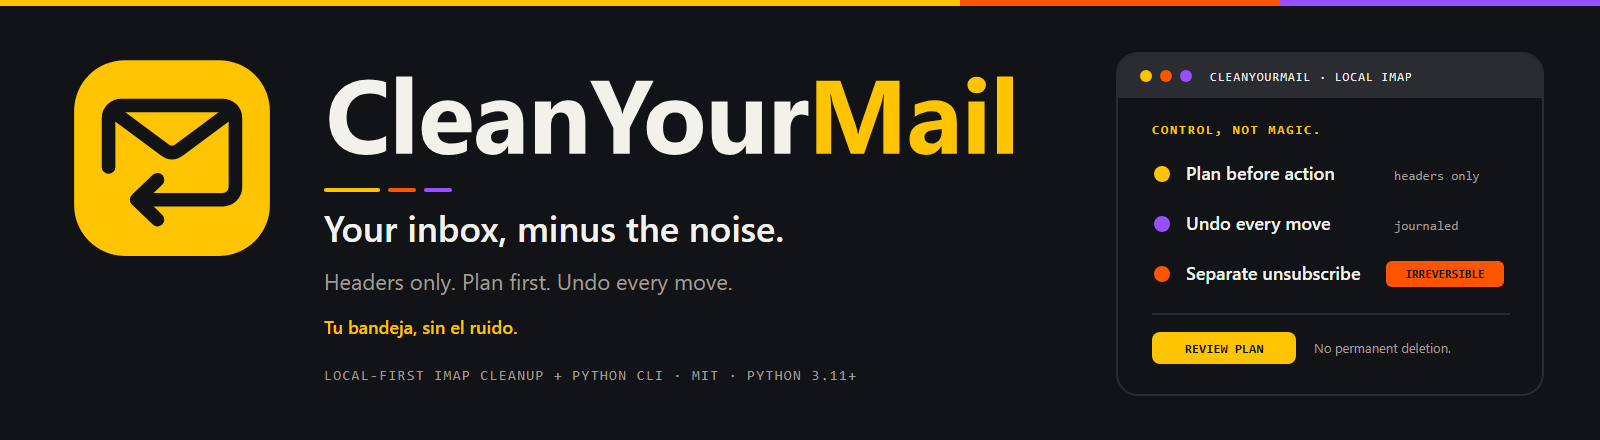
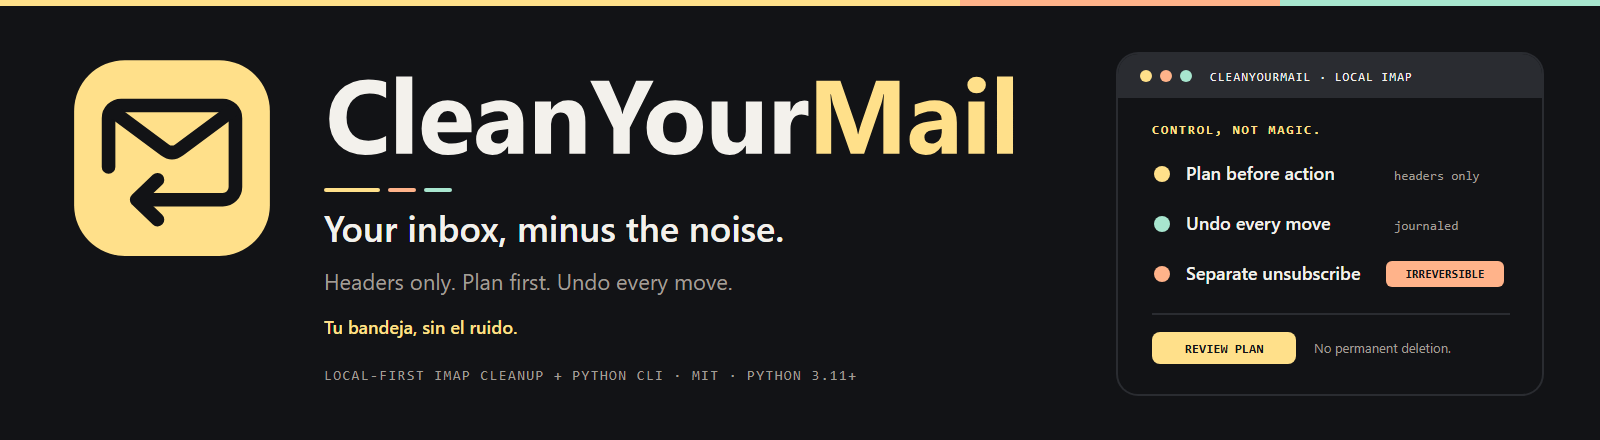
brand: soften Spectrum to pastel yellow, peach and mint
- Replace saturated yellow/orange/purple with #FFE08A, #FFB38A and #A8E6CF.\n- Remove purple; mint now carries journal/undo and peach carries attention.\n- Update the Spectrum guide, preview, banner and social card.\n- Refresh the repository banner and social preview.\n\nTests: python -m unittest discover -s tests -v (146 OK);\npython -m compileall -q tools tests; python -m ruff check tools tests.

diff --git a/brand/final-spectrum/preview.html b/brand/final-spectrum/preview.html
@@ -12,13 +12,13 @@
       --panel-inner: #191B20;
       --text: #F3F1EC;
       --muted: #A19E96;
-      --yellow: #FFC400;
-      --orange: #FF5500;
-      --purple: #9650FF;
+      --yellow: #FFE08A;
+      --peach: #FFB38A;
+      --mint: #A8E6CF;
       --light-bg: #F3F1EC;
       --light-text: #121316;
       --light-secondary: #4E4D48;
-      --light-amber: #8A5200;
+      --light-amber: #7A5A00;
     }
     * { box-sizing: border-box; }
     body {
@@ -34,8 +34,8 @@
       width: 100%;
     }
     .top-ribbon .r-yellow { flex: 6; background: var(--yellow); }
-    .top-ribbon .r-orange { flex: 2; background: var(--orange); }
-    .top-ribbon .r-purple { flex: 2; background: var(--purple); }
+    .top-ribbon .r-peach { flex: 2; background: var(--peach); }
+    .top-ribbon .r-mint { flex: 2; background: var(--mint); }
     main {
       width: min(1440px, calc(100% - 64px));
       margin: 0 auto;
@@ -252,15 +252,15 @@
 <body>
   <div class="top-ribbon" aria-hidden="true">
     <div class="r-yellow"></div>
-    <div class="r-orange"></div>
-    <div class="r-purple"></div>
+    <div class="r-peach"></div>
+    <div class="r-mint"></div>
   </div>
   <main>
     <header>
       <div>
         <div class="eyebrow">Spectrum Colorway · Return Fold Identity</div>
         <h1>CleanYourMail</h1>
-        <p class="lede">Control, not magic. The Return Fold desktop app and CLI identity in the high-contrast Spectrum palette: warm yellow primary tile, purple journal/undo markers, and orange irreversible-unsubscribe warnings.</p>
+        <p class="lede">Control, not magic. The Return Fold desktop app and CLI identity in the high-contrast Spectrum palette: warm yellow primary tile, mint journal/undo markers, and peach irreversible-unsubscribe warnings.</p>
       </div>
       <div class="tagline-box">
         <p class="tagline">Your inbox, minus the noise.</p>
@@ -270,7 +270,7 @@
 
     <section>
       <h2>Symbol scale test (16 px – 256 px)</h2>
-      <p class="section-note">Solid yellow (#FFC400) tile with a single near-black (#121316) Return Fold glyph (11.63:1 contrast). The three-stripe ribbon is never placed inside the symbol or favicon.</p>
+      <p class="section-note">Solid yellow (#FFE08A) tile with a single near-black (#121316) Return Fold glyph (14.40:1 contrast). The three-stripe ribbon is never placed inside the symbol or favicon.</p>
       <div class="panel sizes">
         <div class="size"><img src="symbol.svg" alt="CleanYourMail Spectrum symbol at 16 pixels" width="16" height="16"><span>16 px</span></div>
         <div class="size"><img src="symbol.svg" alt="CleanYourMail Spectrum symbol at 24 pixels" width="24" height="24"><span>24 px</span></div>
@@ -283,7 +283,7 @@
 
     <section>
       <h2>Desktop app icon — dark &amp; light dock / taskbar mock</h2>
-      <p class="section-note">1024×1024 rounded-square desktop app icon with 96 px macOS/Windows safe margins, dark #121316 outer bezel, #2A2C31 inner rim, and #FFC400 Return Fold badge.</p>
+      <p class="section-note">1024×1024 rounded-square desktop app icon with 96 px macOS/Windows safe margins, dark #121316 outer bezel, #2A2C31 inner rim, and #FFE08A Return Fold badge.</p>
       <div class="grid">
         <div class="panel asset">
           <div class="dock-stage dark">
@@ -361,7 +361,7 @@
 
     <section>
       <h2>Primary lockups &amp; restrained three-stripe accent</h2>
-      <p class="section-note">The symbol stays a solid yellow tile; the three-stripe structural rule (yellow dominant, orange, purple) sits calmly below the wordmark.</p>
+      <p class="section-note">The symbol stays a solid yellow tile; the three-stripe structural rule (yellow dominant, peach, mint) sits calmly below the wordmark.</p>
       <div class="grid">
         <div class="panel asset">
           <img class="lockup-wide" src="lockup-horizontal.svg" alt="CleanYourMail Spectrum horizontal lockup" width="860" height="192">
@@ -376,7 +376,7 @@
 
     <section>
       <h2>Wordmark and light-background variant</h2>
-      <p class="section-note">wordmark.svg uses outlined vector paths (#F3F1EC CleanYour + #FFC400 Mail). light.svg uses #F3F1EC canvas, #121316 tile, and accessible deep amber #8A5200 (5.66:1) for Mail.</p>
+      <p class="section-note">wordmark.svg uses outlined vector paths (#F3F1EC CleanYour + #FFE08A Mail). light.svg uses #F3F1EC canvas, #121316 tile, and accessible deep amber #7A5A00 (5.65:1) for Mail.</p>
       <div class="grid">
         <div class="panel asset">
           <img class="lockup-wide" src="wordmark.svg" alt="CleanYourMail Spectrum outlined wordmark" width="604" height="96">
@@ -399,7 +399,7 @@
 
     <section>
       <h2>Social / Open Graph card (1280 × 640)</h2>
-      <p class="section-note">social.svg · Local desktop app + Python CLI engine with yellow plan, purple undo, and orange irreversible-unsubscribe callout.</p>
+      <p class="section-note">social.svg · Local desktop app + Python CLI engine with yellow plan, mint undo, and peach irreversible-unsubscribe callout.</p>
       <div class="panel card"><img src="social.svg" alt="CleanYourMail Spectrum social card" width="1280" height="640"></div>
     </section>
 
@@ -408,19 +408,19 @@
       <p class="section-note">Each accent color maps to a specific product truth rather than equal-weight decoration.</p>
       <div class="roles-grid">
         <div class="role-card">
-          <span class="role-pill" style="background:#FFC400;color:#121316;">YELLOW · #FFC400 · 11.63:1</span>
+          <span class="role-pill" style="background:#FFE08A;color:#121316;">YELLOW · #FFE08A · 14.40:1</span>
           <h3>Primary Action, Plan &amp; Logo Tile</h3>
           <p class="section-note" style="margin:0;">Used for the Return Fold tile, "Mail" in the dark wordmark, primary CTAs ("Review Plan"), and step 1. Always pair yellow surfaces with near-black (#121316) ink.</p>
         </div>
         <div class="role-card">
-          <span class="role-pill" style="background:#9650FF;color:#121316;">PURPLE · #9650FF · 4.32:1</span>
+          <span class="role-pill" style="background:#A8E6CF;color:#121316;">MINT · #A8E6CF · 13.17:1</span>
           <h3>Journal, Undo &amp; Secondary Path</h3>
           <p class="section-note" style="margin:0;">Used for append-only journal badges, undo step markers, and secondary graphic accents. Never use for small body text on dark backgrounds.</p>
         </div>
         <div class="role-card">
-          <span class="role-pill" style="background:#FF5500;color:#121316;">ORANGE · #FF5500 · 5.80:1</span>
+          <span class="role-pill" style="background:#FFB38A;color:#121316;">PEACH · #FFB38A · 10.67:1</span>
           <h3>Attention &amp; Irreversible Unsubscribe</h3>
-          <p class="section-note" style="margin:0;">Reserved for warnings and the separate, irreversible unsubscribe flow. Use near-black (#121316) text on orange badges.</p>
+          <p class="section-note" style="margin:0;">Reserved for warnings and the separate, irreversible unsubscribe flow. Use near-black (#121316) text on peach badges.</p>
         </div>
       </div>
 
@@ -429,10 +429,10 @@
         <div class="swatch"><div class="swatch-color" style="background:#2A2C31"></div><div class="swatch-info"><strong>Panel Gray</strong><br>#2A2C31</div></div>
         <div class="swatch"><div class="swatch-color" style="background:#F3F1EC"></div><div class="swatch-info"><strong>Off-White Text</strong><br>#F3F1EC · 16.46:1</div></div>
         <div class="swatch"><div class="swatch-color" style="background:#A19E96"></div><div class="swatch-info"><strong>Muted Gray</strong><br>#A19E96 · 6.94:1</div></div>
-        <div class="swatch"><div class="swatch-color" style="background:#FFC400"></div><div class="swatch-info"><strong>Primary Yellow</strong><br>#FFC400 · 11.63:1</div></div>
-        <div class="swatch"><div class="swatch-color" style="background:#FF5500"></div><div class="swatch-info"><strong>Warning Orange</strong><br>#FF5500 · 5.80:1</div></div>
-        <div class="swatch"><div class="swatch-color" style="background:#9650FF"></div><div class="swatch-info"><strong>Undo Purple</strong><br>#9650FF · 4.32:1</div></div>
-        <div class="swatch"><div class="swatch-color" style="background:#8A5200"></div><div class="swatch-info"><strong>Light Amber</strong><br>#8A5200 · 5.66:1</div></div>
+        <div class="swatch"><div class="swatch-color" style="background:#FFE08A"></div><div class="swatch-info"><strong>Primary Yellow</strong><br>#FFE08A · 14.40:1</div></div>
+        <div class="swatch"><div class="swatch-color" style="background:#FFB38A"></div><div class="swatch-info"><strong>Warning Peach</strong><br>#FFB38A · 10.67:1</div></div>
+        <div class="swatch"><div class="swatch-color" style="background:#A8E6CF"></div><div class="swatch-info"><strong>Undo Mint</strong><br>#A8E6CF · 13.17:1</div></div>
+        <div class="swatch"><div class="swatch-color" style="background:#7A5A00"></div><div class="swatch-info"><strong>Light Amber</strong><br>#7A5A00 · 5.65:1</div></div>
       </div>
     </section>
 
@@ -449,7 +449,7 @@
           </div>
           <img class="lockup-wide" src="lockup-horizontal.svg" alt="Spectrum horizontal lockup" width="860" height="192">
           <div style="margin-top:14px;"><img class="lockup-wide" src="banner.svg" alt="Spectrum banner" width="1600" height="440"></div>
-          <div class="caption">Neutral carbon #121316 + #FFC400 / #FF5500 / #9650FF semantic accents</div>
+          <div class="caption">Neutral carbon #121316 + #FFE08A / #FFB38A / #A8E6CF semantic accents</div>
         </div>
 
         <div class="panel asset" style="background:#07100d;border-color:#11231b;">

diff --git a/brand/final-spectrum/README.md b/brand/final-spectrum/README.md
@@ -6,28 +6,28 @@
 - **Mark:** **Return Fold** (identical geometry to `brand/final/`): a rounded-square tile containing an envelope whose right and bottom perimeter folds continuously into a left-return arrow (`↩`) below a symmetric V-flap.
 - **Brand idea:** **Control, not magic.**
 - **One-liner:** CleanYourMail is a local-first IMAP cleanup product: a Python CLI and agent skill today, with a desktop app in development. It reads headers only, plans before action, and gives every move a way back.
-
-> The desktop app icon and app-first tokens are prepared for the planned app. Today the Python CLI and agent skill are the available interfaces.
 - **Tagline (EN):** **Your inbox, minus the noise.**
 - **Tagline (ES):** **Tu bandeja, sin el ruido.**
 
-The **Spectrum** colorway pairs a neutral carbon background (`#121316`) and warm off-white typography (`#F3F1EC`) with three semantic signal colors—**Yellow (`#FFC400`)**, **Orange (`#FF5500`)**, and **Purple (`#9650FF`)**—plus a restrained, horizontal three-stripe structural accent. It takes only the color palette and a generic three-stripe bar as inspiration; it avoids diagonal esports slashes, condensed gaming display fonts, or third-party trade dress.
+> The desktop app icon and app-first tokens are prepared for the planned app. Today the Python CLI and agent skill are the available interfaces.
+
+The **Spectrum** colorway pairs a neutral carbon background (`#121316`) and warm off-white typography (`#F3F1EC`) with three semantic signal colors—**Yellow (`#FFE08A`)**, **Peach (`#FFB38A`)**, and **Mint (`#A8E6CF`)**—plus a restrained, horizontal three-stripe structural accent. It takes only the color palette and a generic three-stripe bar as inspiration; it avoids diagonal esports slashes, condensed gaming display fonts, or third-party trade dress.
 
 ---
 
 ## 2. Semantic color roles & contrast ratios
 
-Rather than using yellow, orange, and purple at equal weight inside the logo, **Spectrum assigns each accent color to a distinct product truth**:
+Rather than using yellow, peach, and mint at equal weight inside the logo, **Spectrum assigns each accent color to a distinct product truth**:
 
-1. **Yellow (`#FFC400`) — Primary Action, Plan, CTA & Logo Tile:**
+1. **Yellow (`#FFE08A`) — Primary Action, Plan, CTA & Logo Tile:**
    - Used for the solid Return Fold logo tile, `Mail` in the dark-background wordmark, primary action buttons (`Review Plan`), and Step 1 (*Plan before action*).
-   - Always use near-black (`#121316`) ink on yellow fills (`11.63:1` AAA contrast).
-2. **Purple (`#9650FF`) — Journal, Undo & Secondary Path:**
+   - Always use near-black (`#121316`) ink on yellow fills (`14.40:1` AAA contrast).
+2. **Mint (`#A8E6CF`) — Journal, Undo & Secondary Path:**
    - Used for append-only journal badges, undo step markers (Step 2: *Journal & undo moves*), and secondary structural accents.
-   - Use for step markers, icons, and large headlines (`4.32:1` on `#121316`), **never** for small body copy on dark backgrounds.
-3. **Orange (`#FF5500`) — Attention, Warnings & Irreversible Unsubscribe:**
+   - Use for step markers, icons, and large headlines (`13.17:1` on `#121316`), **never** for small body copy on dark backgrounds.
+3. **Peach (`#FFB38A`) — Attention, Warnings & Irreversible Unsubscribe:**
    - Reserved for caution states and the separate, irreversible unsubscribe flow.
-   - Use near-black (`#121316`) text on orange badges (`5.80:1` AA contrast).
+   - Use near-black (`#121316`) text on peach badges (`10.67:1` AA contrast).
 4. **Neutral Foundation (`#121316`, `#2A2C31`, `#F3F1EC`, `#A19E96`):**
    - Carbon background `#121316`, elevated/border panel gray `#2A2C31`, warm off-white primary text `#F3F1EC`, and muted warm gray `#A19E96` for secondary copy.
 
@@ -35,23 +35,23 @@ Rather than using yellow, orange, and purple at equal weight inside the logo, **
 
 | Token | Hex | Role | WCAG contrast ratio |
 |---|---|---|---|
-| `background` | `#121316` | Primary dark canvas & Return Fold ink on yellow/orange | — |
+| `background` | `#121316` | Primary dark canvas & Return Fold ink on yellow/peach | — |
 | `panel` | `#2A2C31` | Card borders, window chrome, secondary surfaces | `12.38:1` with `#F3F1EC` (AAA) |
 | `text` | `#F3F1EC` | Primary off-white text & `CleanYour` on dark | `16.46:1` on `#121316` (AAA) |
 | `muted` | `#A19E96` | Secondary copy, subtitles, technical metadata | `6.94:1` on `#121316` (AA) / `5.22:1` on `#2A2C31` (AA) |
-| `yellow` | `#FFC400` | Logo tile, `Mail` on dark, Plan / primary CTA | `11.63:1` with `#121316` (AAA) / `8.75:1` on `#2A2C31` (AAA) |
-| `orange` | `#FF5500` | Warnings & irreversible unsubscribe badges | `5.80:1` with `#121316` (AA) / `4.36:1` on `#2A2C31` (AA Large) |
-| `purple` | `#9650FF` | Journal & undo step markers, ribbon third segment | `4.32:1` on `#121316` (AA Large / UI) |
+| `yellow` | `#FFE08A` | Logo tile, `Mail` on dark, Plan / primary CTA | `14.40:1` with `#121316` (AAA) / `10.83:1` on `#2A2C31` (AAA) |
+| `peach` | `#FFB38A` | Warnings & irreversible unsubscribe badges | `10.67:1` with `#121316` (AA) / `8.03:1` on `#2A2C31` (AA Large) |
+| `mint` | `#A8E6CF` | Journal & undo step markers, ribbon third segment | `13.17:1` on `#121316` (AA Large / UI) |
 | `light-canvas` | `#F3F1EC` | Light-background surface (`light.svg`) | `16.46:1` with `#121316` (AAA) |
 | `light-secondary` | `#4E4D48` | Supporting text on `#F3F1EC` light canvas | `7.50:1` on `#F3F1EC` (AAA) |
-| `light-amber` | `#8A5200` | Accessible `Mail` wordmark accent on `#F3F1EC` | `5.66:1` on `#F3F1EC` (AA) |
+| `light-amber` | `#7A5A00` | Accessible `Mail` wordmark accent on `#F3F1EC` | `5.65:1` on `#F3F1EC` (AA) |
 
 ---
 
 ## 3. Three-stripe ribbon usage
 
-- **Keep the symbol solid:** `symbol.svg`, `favicon.svg`, `app-icon.svg`, `mono.svg`, and `app-icon-mono.svg` never split the tile or glyph into three colors. The tile is solid `#FFC400` with `#121316` ink.
-- **Unequal, yellow-led weighting:** The three-stripe accent uses a **2 : 1 : 1** or **3 : 1 : 1** ratio (`#FFC400` yellow first and widest, followed by `#FF5500` orange and `#9650FF` purple) so yellow remains the unmistakable primary brand color.
+- **Keep the symbol solid:** `symbol.svg`, `favicon.svg`, `app-icon.svg`, `mono.svg`, and `app-icon-mono.svg` never split the tile or glyph into three colors. The tile is solid `#FFE08A` with `#121316` ink.
+- **Unequal, yellow-led weighting:** The three-stripe accent uses a **2 : 1 : 1** or **3 : 1 : 1** ratio (`#FFE08A` yellow first and widest, followed by `#FFB38A` peach and `#A8E6CF` mint) so yellow remains the unmistakable primary brand color.
 - **Calm, horizontal structure:** Use the ribbon as a thin (`4–6 px`) horizontal top border on banners/cards or as a compact (`128–144 px` wide, `4–5 px` tall) horizontal section divider beneath lockup headers.
 - **Where not to use:** Never angle the ribbon as a diagonal background slash, never place it behind body text, and never include it inside `favicon.svg` or `symbol.svg`.
 
@@ -59,9 +59,9 @@ Rather than using yellow, orange, and purple at equal weight inside the logo, **
 
 ## 4. Logo, wordmark & desktop app icon rules
 
-- **Symbol (`symbol.svg`, 512×512):** `#121316` background, `#FFC400` tile (`x=40, y=40, width=432, height=432, rx=112`), `#121316` Return Fold stroke (`stroke-width=30`). Minimum size: `16 px` (`24 px` standalone).
+- **Symbol (`symbol.svg`, 512×512):** `#121316` background, `#FFE08A` tile (`x=40, y=40, width=432, height=432, rx=112`), `#121316` Return Fold stroke (`stroke-width=30`). Minimum size: `16 px` (`24 px` standalone).
 - **Favicon (`favicon.svg`, 64×64):** Simplified 64-unit grid (`x=2, y=2, width=60, height=60, rx=16`, `stroke-width=4.5`) for `16–32 px` browser tabs.
-- **Desktop App Icon (`app-icon.svg`, 1024×1024):** `832×832` rounded square (`rx=192`) with `96 px` OS safe margins, `#121316` outer bezel, `#2A2C31` inner rim, and `#FFC400` inner badge (`720×720`, `rx=156`). Works cleanly on both dark and light macOS Docks and Windows taskbars from `32 px` to `1024 px`.
+- **Desktop App Icon (`app-icon.svg`, 1024×1024):** `832×832` rounded square (`rx=192`) with `96 px` OS safe margins, `#121316` outer bezel, `#2A2C31` inner rim, and `#FFE08A` inner badge (`720×720`, `rx=156`). Works cleanly on both dark and light macOS Docks and Windows taskbars from `32 px` to `1024 px`.
 - **Monochrome (`mono.svg` & `app-icon-mono.svg`):** Single `#121316` ink outline with transparent fill for embossing, stamps, and monochrome system trays.
 - **Wordmark (`wordmark.svg`, 604×96) & Lockups (`lockup-horizontal.svg`, `lockup-stacked.svg`, `light.svg`):** Outlined `<path>` geometry (`CleanYourMail`). Minimum width: `120 px` for wordmark alone, `160 px` for horizontal/light/stacked lockups. Clear space around any mark is `25%` of the visible tile width.
 - **Supporting typography (`banner.svg`, `social.svg`, `preview.html`):** System UI stack `"Segoe UI", "Helvetica Neue", Arial, sans-serif` and technical stack `Consolas, Menlo, monospace`. Convert `<text>` in banners/cards to outlines only if required by a print vendor.
@@ -73,13 +73,13 @@ Rather than using yellow, orange, and purple at equal weight inside the logo, **
 ### Do
 - Keep the exact `CleanYourMail` casing and both taglines (*“Your inbox, minus the noise.”* / *“Tu bandeja, sin el ruido.”*).
 - State clearly that CleanYourMail reads **headers only** (never bodies/attachments) and that **reversible applies to moves, while unsubscribe is separate and irreversible**.
-- Use near-black `#121316` text on `#FFC400` yellow and `#FF5500` orange fills.
-- Use `#8A5200` (not `#FFC400`) for the `Mail` wordmark accent on light `#F3F1EC` backgrounds so text contrast stays above `4.5:1` (`5.66:1`).
+- Use near-black `#121316` text on `#FFE08A` yellow and `#FFB38A` peach fills.
+- Use `#7A5A00` (not `#FFE08A`) for the `Mail` wordmark accent on light `#F3F1EC` backgrounds so text contrast stays above `4.5:1` (`5.65:1`).
 
 ### Don’t
 - Do not color the envelope flap, body, and arrow in three different colors inside the symbol or app icon.
 - Do not copy diagonal esports stripes, skewed parallelogram boxes, or condensed gaming typography.
-- Do not use `#9650FF` purple for small body text on `#121316` or `#2A2C31`.
+- Do not use `#A8E6CF` mint for small body text on `#121316` or `#2A2C31`.
 - Do not add AI sparkles, gradients, glows, fake user counts, testimonials, benchmark claims, or fixed test counts.
 
 ---
@@ -88,17 +88,17 @@ Rather than using yellow, orange, and purple at equal weight inside the logo, **
 
 | File | Dimensions / ViewBox | Purpose |
 |---|---|---|
-| `symbol.svg` | `512 × 512` | Solid yellow `#FFC400` Return Fold symbol on `#121316` background. |
+| `symbol.svg` | `512 × 512` | Solid yellow `#FFE08A` Return Fold symbol on `#121316` background. |
 | `favicon.svg` | `64 × 64` | Simplified `16–32 px` yellow tile + `#121316` glyph (no ribbon). |
 | `app-icon.svg` | `1024 × 1024` | Rounded-square desktop app icon with `96 px` safe margins and `#121316`/`#2A2C31` bezel. |
 | `app-icon-mono.svg` | `1024 × 1024` | Single-color (`#121316`) desktop app icon with `96 px` safe margins. |
-| `wordmark.svg` | `604 × 96` | Outlined `<path>` wordmark (`#F3F1EC` `CleanYour` + `#FFC400` `Mail`). |
+| `wordmark.svg` | `604 × 96` | Outlined `<path>` wordmark (`#F3F1EC` `CleanYour` + `#FFE08A` `Mail`). |
 | `lockup-horizontal.svg` | `860 × 192` | Primary horizontal lockup with restrained 3-stripe structural accent. |
 | `lockup-stacked.svg` | `640 × 640` | Square stacked lockup with centered 3-stripe structural bar. |
 | `mono.svg` | `512 × 512` | Single-ink (`#121316`) outlined symbol. |
-| `light.svg` | `860 × 192` | Light-background (`#F3F1EC`) lockup with `#121316` tile and `#8A5200` accessible `Mail` accent. |
+| `light.svg` | `860 × 192` | Light-background (`#F3F1EC`) lockup with `#121316` tile and `#7A5A00` accessible `Mail` accent. |
 | `banner.svg` | `1600 × 440` | Repository banner with restrained top ribbon, taglines, and semantic step card. |
-| `social.svg` | `1280 × 640` | Social / OG card with yellow plan, purple undo, and orange irreversible-unsubscribe roles. |
+| `social.svg` | `1280 × 640` | Social / OG card with yellow plan, mint undo, and peach irreversible-unsubscribe roles. |
 | `preview.html` | Responsive HTML | Offline QA preview including side-by-side comparison with `brand/final/`. |
 | `README.md` | Markdown | Full Spectrum brand guide and recommendation. |
 
@@ -112,8 +112,8 @@ See [`docs/BRAND-SPECTRUM.md`](../../docs/BRAND-SPECTRUM.md) for the one-page ch
 
 Why **Spectrum** is exceptionally strong for an **app-first** CleanYourMail:
 1. **Built-in semantic hierarchy for a safety-critical GUI:** Unlike the monochrome green/teal palette (where both safe moves and warnings have to borrow outside colors or rely on subtle green shades), Spectrum gives the desktop app a native, high-contrast functional vocabulary right out of the brand palette:
-   - **Yellow (`#FFC400`)** = *Plan / Review before action* (primary constructive action).
-   - **Purple (`#9650FF`)** = *Journal / Undo* (the verified way back).
-   - **Orange (`#FF5500`)** = *Irreversible Unsubscribe / Caution* (visually separating irreversible network actions from reversible IMAP folder moves).
-2. **Superior desktop dock differentiation:** Most developer and productivity utilities on macOS/Windows docks cluster in blues, teals, or dark greens. A warm `#FFC400` badge framed in `#121316` carbon (`app-icon.svg`) is immediately scannable at `32 px` and `64 px` on both dark and light docks while feeling like an industrial-grade local tool (akin to classic hardware instruments and diagnostic tools).
+   - **Yellow (`#FFE08A`)** = *Plan / Review before action* (primary constructive action).
+   - **Mint (`#A8E6CF`)** = *Journal / Undo* (the verified way back).
+   - **Peach (`#FFB38A`)** = *Irreversible Unsubscribe / Caution* (visually separating irreversible network actions from reversible IMAP folder moves).
+2. **Superior desktop dock differentiation:** Most developer and productivity utilities on macOS/Windows docks cluster in blues, teals, or dark greens. A warm `#FFE08A` badge framed in `#121316` carbon (`app-icon.svg`) is immediately scannable at `32 px` and `64 px` on both dark and light docks while feeling like an industrial-grade local tool (akin to classic hardware instruments and diagnostic tools).
 3. **Neutral carbon UI surfaces (`#121316` / `#2A2C31`):** Dense email header tables (sender, subject, date, size, flags) are easier to scan over neutral warm carbon (`#121316` with `#F3F1EC` warm paper text at `16.46:1`) than over tinted green backgrounds, while reducing visual fatigue during long inbox triage sessions.

diff --git a/docs/BRAND-SPECTRUM.md b/docs/BRAND-SPECTRUM.md
@@ -1,6 +1,6 @@
 # CleanYourMail — Spectrum Brand Cheat Sheet
 
-**Final decision: Return Fold in the Spectrum colorway.** CleanYourMail pairs the **Return Fold** envelope-and-undo mark (`↩`) with a neutral carbon canvas (`#121316`), warm off-white text (`#F3F1EC`), and three semantic signal colors: **Yellow `#FFC400`** (plan, primary action, logo tile), **Purple `#9650FF`** (journal & undo), and **Orange `#FF5500`** (attention & irreversible unsubscribe). Full specifications live in [`brand/final-spectrum/README.md`](../brand/final-spectrum/README.md).
+**Final decision: Return Fold in the Spectrum colorway.** CleanYourMail pairs the **Return Fold** envelope-and-undo mark (`↩`) with a neutral carbon canvas (`#121316`), warm off-white text (`#F3F1EC`), and three semantic signal colors: **Yellow `#FFE08A`** (plan, primary action, logo tile), **Mint `#A8E6CF`** (journal & undo), and **Peach `#FFB38A`** (attention & irreversible unsubscribe). Full specifications live in [`brand/final-spectrum/README.md`](../brand/final-spectrum/README.md).
 
 ## Identity essentials
 
@@ -11,16 +11,16 @@
 
 ## Semantic color roles & contrast ratios
 
-- **Yellow `#FFC400` (Primary / Plan / Logo Tile):** Solid Return Fold tile, `Mail` in dark wordmark, primary CTAs, Step 1 (*Plan*). Always pair yellow fills with near-black `#121316` text/ink (**11.63:1** AAA; `#FFC400` on `#2A2C31` panel is **8.75:1** AAA).
-- **Orange `#FF5500` (Attention / Irreversible Unsubscribe):** Warning states and separate unsubscribe badges. Always use near-black `#121316` text on orange fills (**5.80:1** AA; `#FF5500` on `#2A2C31` is **4.36:1** AA Large).
-- **Purple `#9650FF` (Journal / Undo / Secondary Path):** Undo markers, journal badges, and third ribbon segment (**4.32:1** on `#121316`; **3.25:1** on `#2A2C31`). Use for step markers, icons, and large accents—never small body text on dark.
+- **Yellow `#FFE08A` (Primary / Plan / Logo Tile):** Solid Return Fold tile, `Mail` in dark wordmark, primary CTAs, Step 1 (*Plan*). Always pair yellow fills with near-black `#121316` text/ink (**14.40:1** AAA; `#FFE08A` on `#2A2C31` panel is **10.83:1** AAA).
+- **Peach `#FFB38A` (Attention / Irreversible Unsubscribe):** Warning states and separate unsubscribe badges. Always use near-black `#121316` text on peach fills (**10.67:1** AA; `#FFB38A` on `#2A2C31` is **8.03:1** AA Large).
+- **Mint `#A8E6CF` (Journal / Undo / Secondary Path):** Undo markers, journal badges, and third ribbon segment (**13.17:1** on `#121316`; **9.90:1** on `#2A2C31`). Use for step markers, icons, and large accents—never small body text on dark.
 - **Neutrals:** Carbon background `#121316` · Panel gray `#2A2C31` · Off-white text `#F3F1EC` (**16.46:1** on `#121316`, **12.38:1** on `#2A2C31`) · Muted gray `#A19E96` (**6.94:1** on `#121316`, **5.22:1** on `#2A2C31`).
-- **Light surface (`light.svg` on `#F3F1EC`):** Near-black tile/text `#121316` (**16.46:1**), secondary `#4E4D48` (**7.50:1**), and accessible deep amber `Mail` accent `#8A5200` (**5.66:1** AA).
+- **Light surface (`light.svg` on `#F3F1EC`):** Near-black tile/text `#121316` (**16.46:1**), secondary `#4E4D48` (**7.50:1**), and accessible deep amber `Mail` accent `#7A5A00` (**5.65:1** AA).
 
 ## Three-stripe ribbon & logo rules
 
-- **Solid symbol tile:** Keep `symbol.svg`, `favicon.svg`, and `app-icon.svg` as a single solid `#FFC400` tile with `#121316` ink. Never split the symbol into three colors or place the ribbon inside the 16 px favicon.
-- **Restrained horizontal ribbon:** Use a thin (`4–6 px`), yellow-dominant (`#FFC400` / `#FF5500` / `#9650FF`) horizontal rule as a top banner border or small section divider under lockup headers. Never use diagonal esports stripes or put the ribbon behind body copy.
+- **Solid symbol tile:** Keep `symbol.svg`, `favicon.svg`, and `app-icon.svg` as a single solid `#FFE08A` tile with `#121316` ink. Never split the symbol into three colors or place the ribbon inside the 16 px favicon.
+- **Restrained horizontal ribbon:** Use a thin (`4–6 px`), yellow-dominant (`#FFE08A` / `#FFB38A` / `#A8E6CF`) horizontal rule as a top banner border or small section divider under lockup headers. Never use diagonal esports stripes or put the ribbon behind body copy.
 - **Typography:** Wordmark (`wordmark.svg` and lockups) uses outlined `<path>` vectors. Supporting copy uses `"Segoe UI", "Helvetica Neue", Arial, sans-serif` and `Consolas, Menlo, monospace`.
 - **Guardrail copy:** Always state **"headers only"** (never *"no email data at all"*) and state that **reversible applies to moves, while unsubscribe is separate and irreversible**.
 
@@ -29,4 +29,4 @@
 - **Icons & marks:** `symbol.svg` (512×512), `favicon.svg` (64×64 for 16–32 px), `app-icon.svg` (1024×1024 desktop icon with `96 px` safe margins), `app-icon-mono.svg` (1024×1024 one-ink), `mono.svg` (512×512 one-ink).
 - **Wordmark & lockups:** `wordmark.svg` (604×96), `lockup-horizontal.svg` (860×192), `lockup-stacked.svg` (640×640), `light.svg` (860×192).
 - **Cards & QA:** `banner.svg` (1600×440), `social.svg` (1280×640), `preview.html` (offline preview with side-by-side comparison against `brand/final/`).
-- **Recommendation:** Adopt **Spectrum** as the primary app-first identity (or default dark UI theme) because its semantic triad—**Yellow (Plan)**, **Purple (Undo/Journal)**, and **Orange (Irreversible Unsubscribe)**—maps directly to CleanYourMail's safety architecture on a neutral `#121316` carbon workspace, while the `#FFC400` app icon achieves standout visibility on desktop docks.
+- **Recommendation:** Adopt **Spectrum** as the primary app-first identity (or default dark UI theme) because its semantic triad—**Yellow (Plan)**, **Mint (Undo/Journal)**, and **Peach (Irreversible Unsubscribe)**—maps directly to CleanYourMail's safety architecture on a neutral `#121316` carbon workspace, while the `#FFE08A` app icon achieves standout visibility on desktop docks.

diff --git a/brand/final/README.md b/brand/final/README.md
@@ -1,17 +1,17 @@
 # CleanYourMail — Forest Brand Identity & App Icon Guide
 
-> **Primary app-first identity:** [Spectrum](../final-spectrum/README.md) — yellow/orange/purple Return Fold on carbon. This package is the **Forest/Lime alternate**, kept for the classic CLI theme.
+> **Primary app-first identity:** [Spectrum](../final-spectrum/README.md) — yellow/peach/mint Return Fold on carbon. This package is the **Forest/Lime alternate**, kept for the classic CLI theme.
 
 ## 1. Brand idea & final decision
 
 - **Name:** `CleanYourMail` (exact casing: capital **C**, **Y**, **M**; never rename, split with spaces, or publicly abbreviate).
 - **Brand idea:** **Control, not magic.**
 - **One-liner:** CleanYourMail is a local-first IMAP cleanup product: a Python CLI and agent skill today, with a desktop app in development. It reads headers only, plans before action, and gives every move a way back.
-
-> The desktop app icon and app-first tokens are prepared for the planned app. Today the Python CLI and agent skill are the available interfaces.
 - **Tagline (EN):** **Your inbox, minus the noise.**
 - **Tagline (ES):** **Tu bandeja, sin el ruido.**
 - **Audience:** Non-technical people who want a calm visual app (the desktop app is in development), plus developers and coding agents who use the Python 3.11+ CLI engine. Today the CLI and agent skill are the available interfaces; the desktop app is the intended primary interface.
+
+> The desktop app icon and app-first tokens are prepared for the planned app. Today the Python CLI and agent skill are the available interfaces.
 
 ### Three directions explored internally
 

diff --git a/docs/BRAND.md b/docs/BRAND.md
@@ -1,6 +1,6 @@
 # CleanYourMail — Forest Brand Cheat Sheet
 
-> **Primary app-first identity:** [Spectrum](BRAND-SPECTRUM.md) — the yellow/orange/purple Return Fold on carbon. This document covers the **Forest/Lime alternate**, kept for the classic CLI theme.
+> **Primary app-first identity:** [Spectrum](BRAND-SPECTRUM.md) — the yellow/peach/mint Return Fold on carbon. This document covers the **Forest/Lime alternate**, kept for the classic CLI theme.
 
 **Forest colorway: Return Fold.** CleanYourMail replaces the old gradient-and-sparkle icon with the **Return Fold** mark: a bold envelope whose right and bottom perimeter folds continuously into a left-return undo arrow (`↩`) below a classic symmetric V-flap. It expresses mail plus a verified way back—**Control, not magic**—at every size from a 16 px favicon to a 1024 px desktop app icon. Full specifications and SVG masters live in [`brand/final/README.md`](../brand/final/README.md).
 
